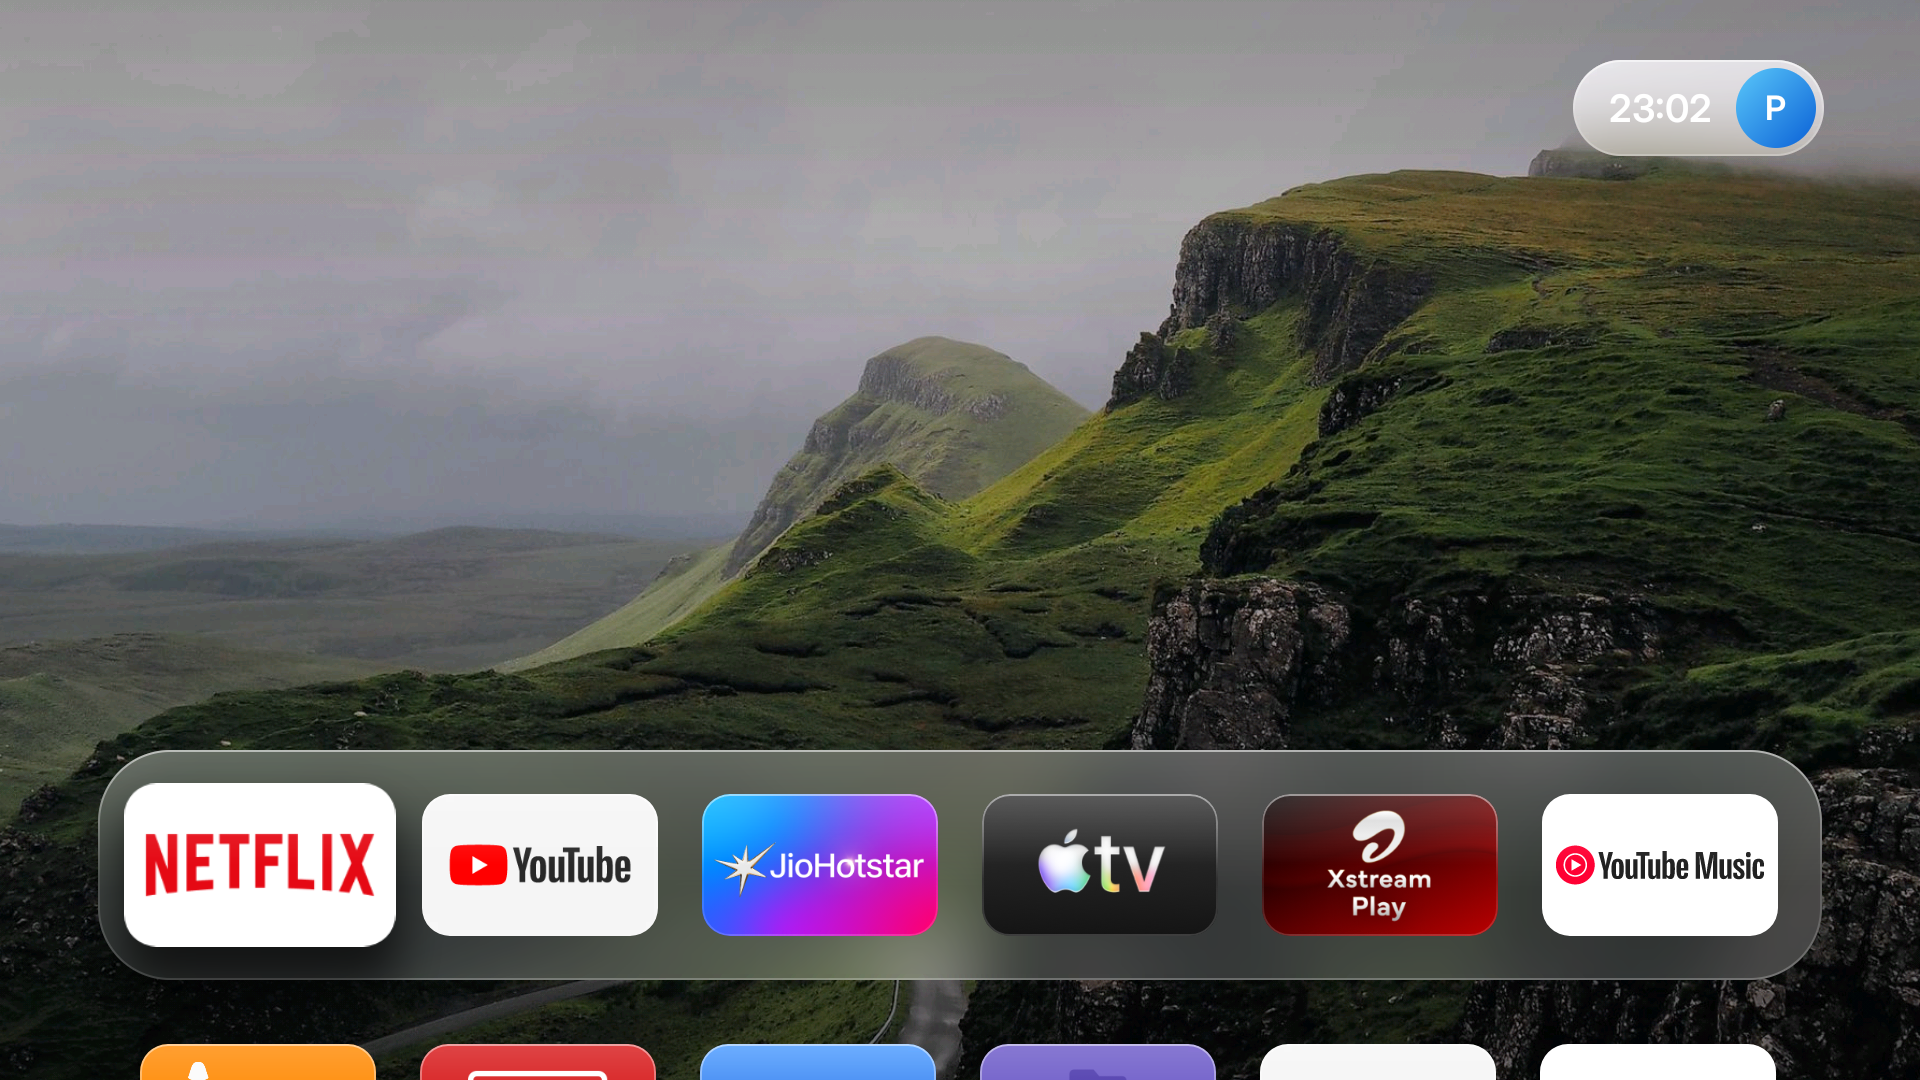
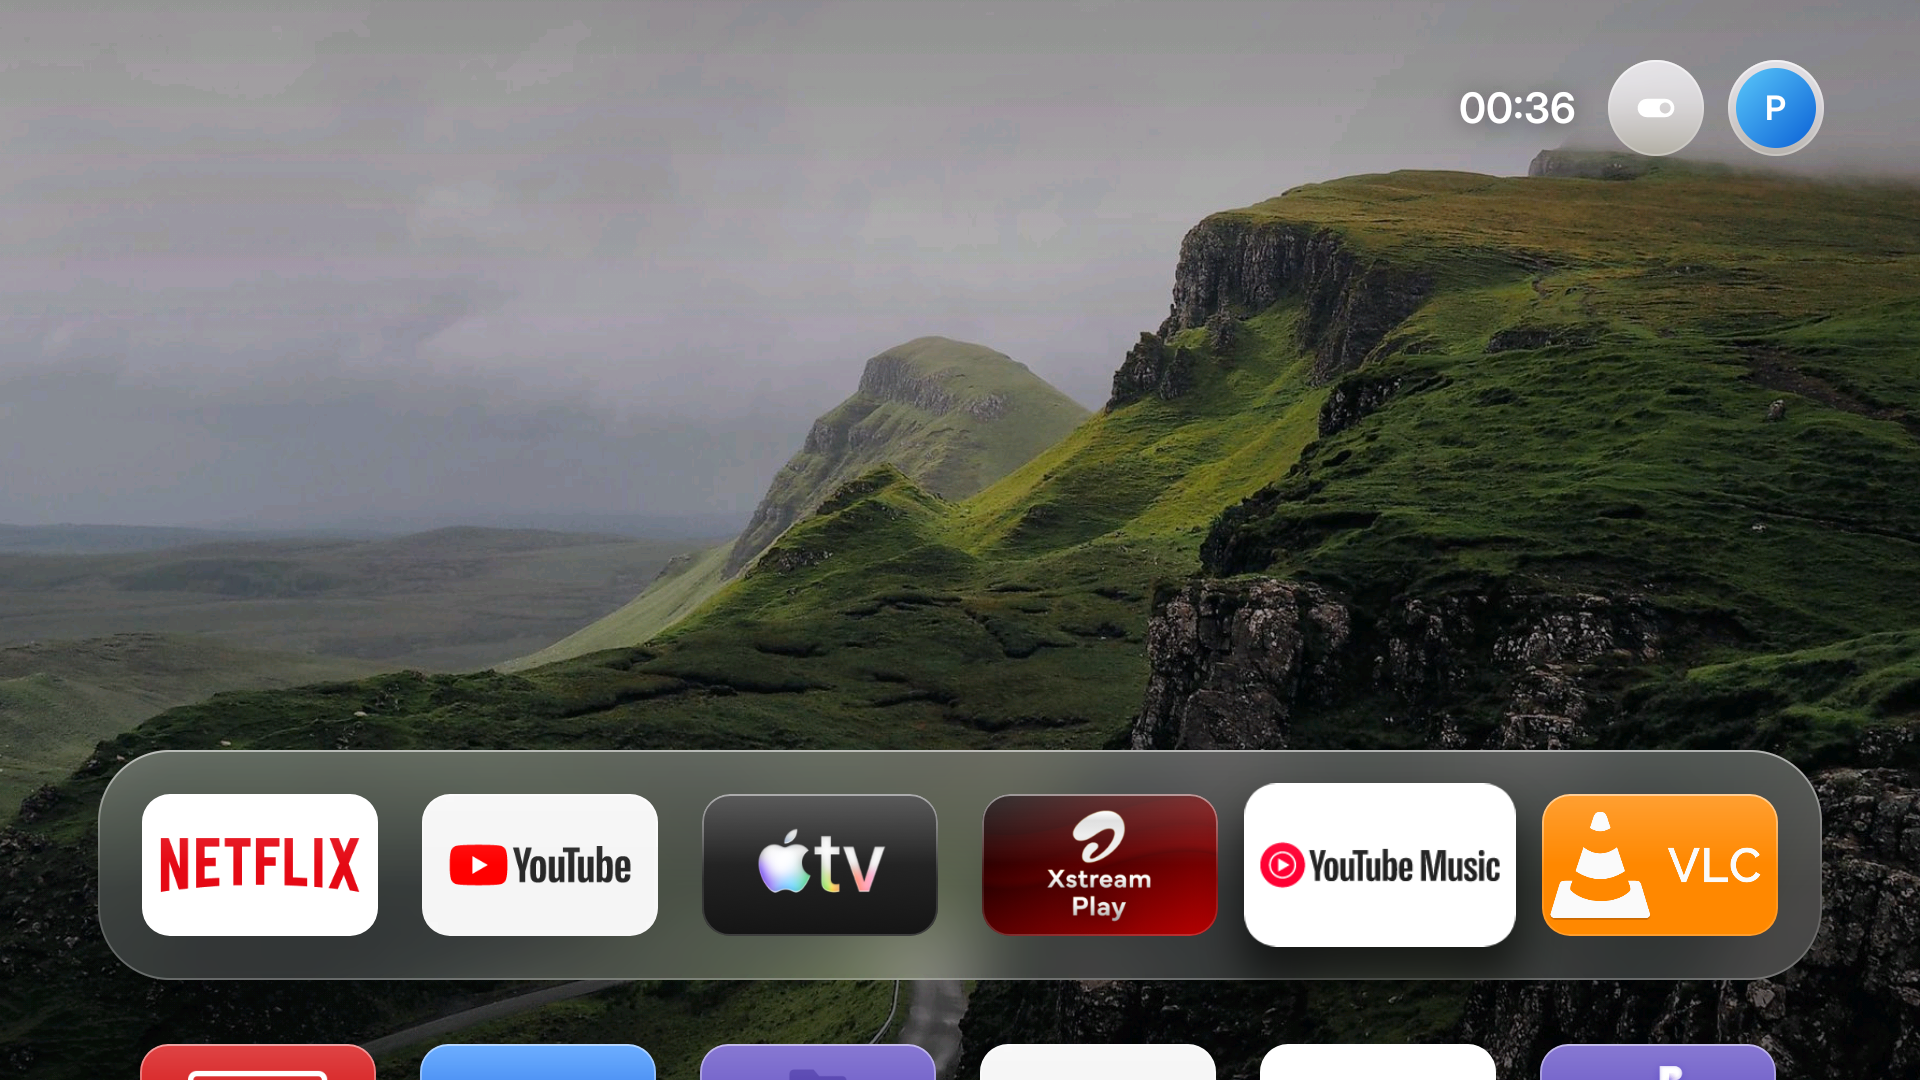
Update screenshots to the current UI
Fresh captures of the home screen, Top Shelf, Control Center, Aerials and
Screen Saver settings; README gains Top Shelf and Control Center rows.

diff --git a/README.md b/README.md
@@ -30,9 +30,13 @@ TCL-specific.
 - **Remote shortcuts** – Netflix / Prime Video / YouTube buttons on TCL remotes.
 - App open/close zoom, focus click sound, night dimming after 9 pm.
 
-| Aerials | Screen Saver settings |
+| Top Shelf | Top Shelf (press Up) |
 |---|---|
-| ![](docs/aerials.png) | ![](docs/screen-saver-settings.png) |
+| ![](docs/top-shelf.png) | ![](docs/top-shelf-carousel.png) |
+
+| Control Center | Aerials | Screen Saver settings |
+|---|---|---|
+| ![](docs/control-center.png) | ![](docs/aerials.png) | ![](docs/screen-saver-settings.png) |
 
 ## Install
 
